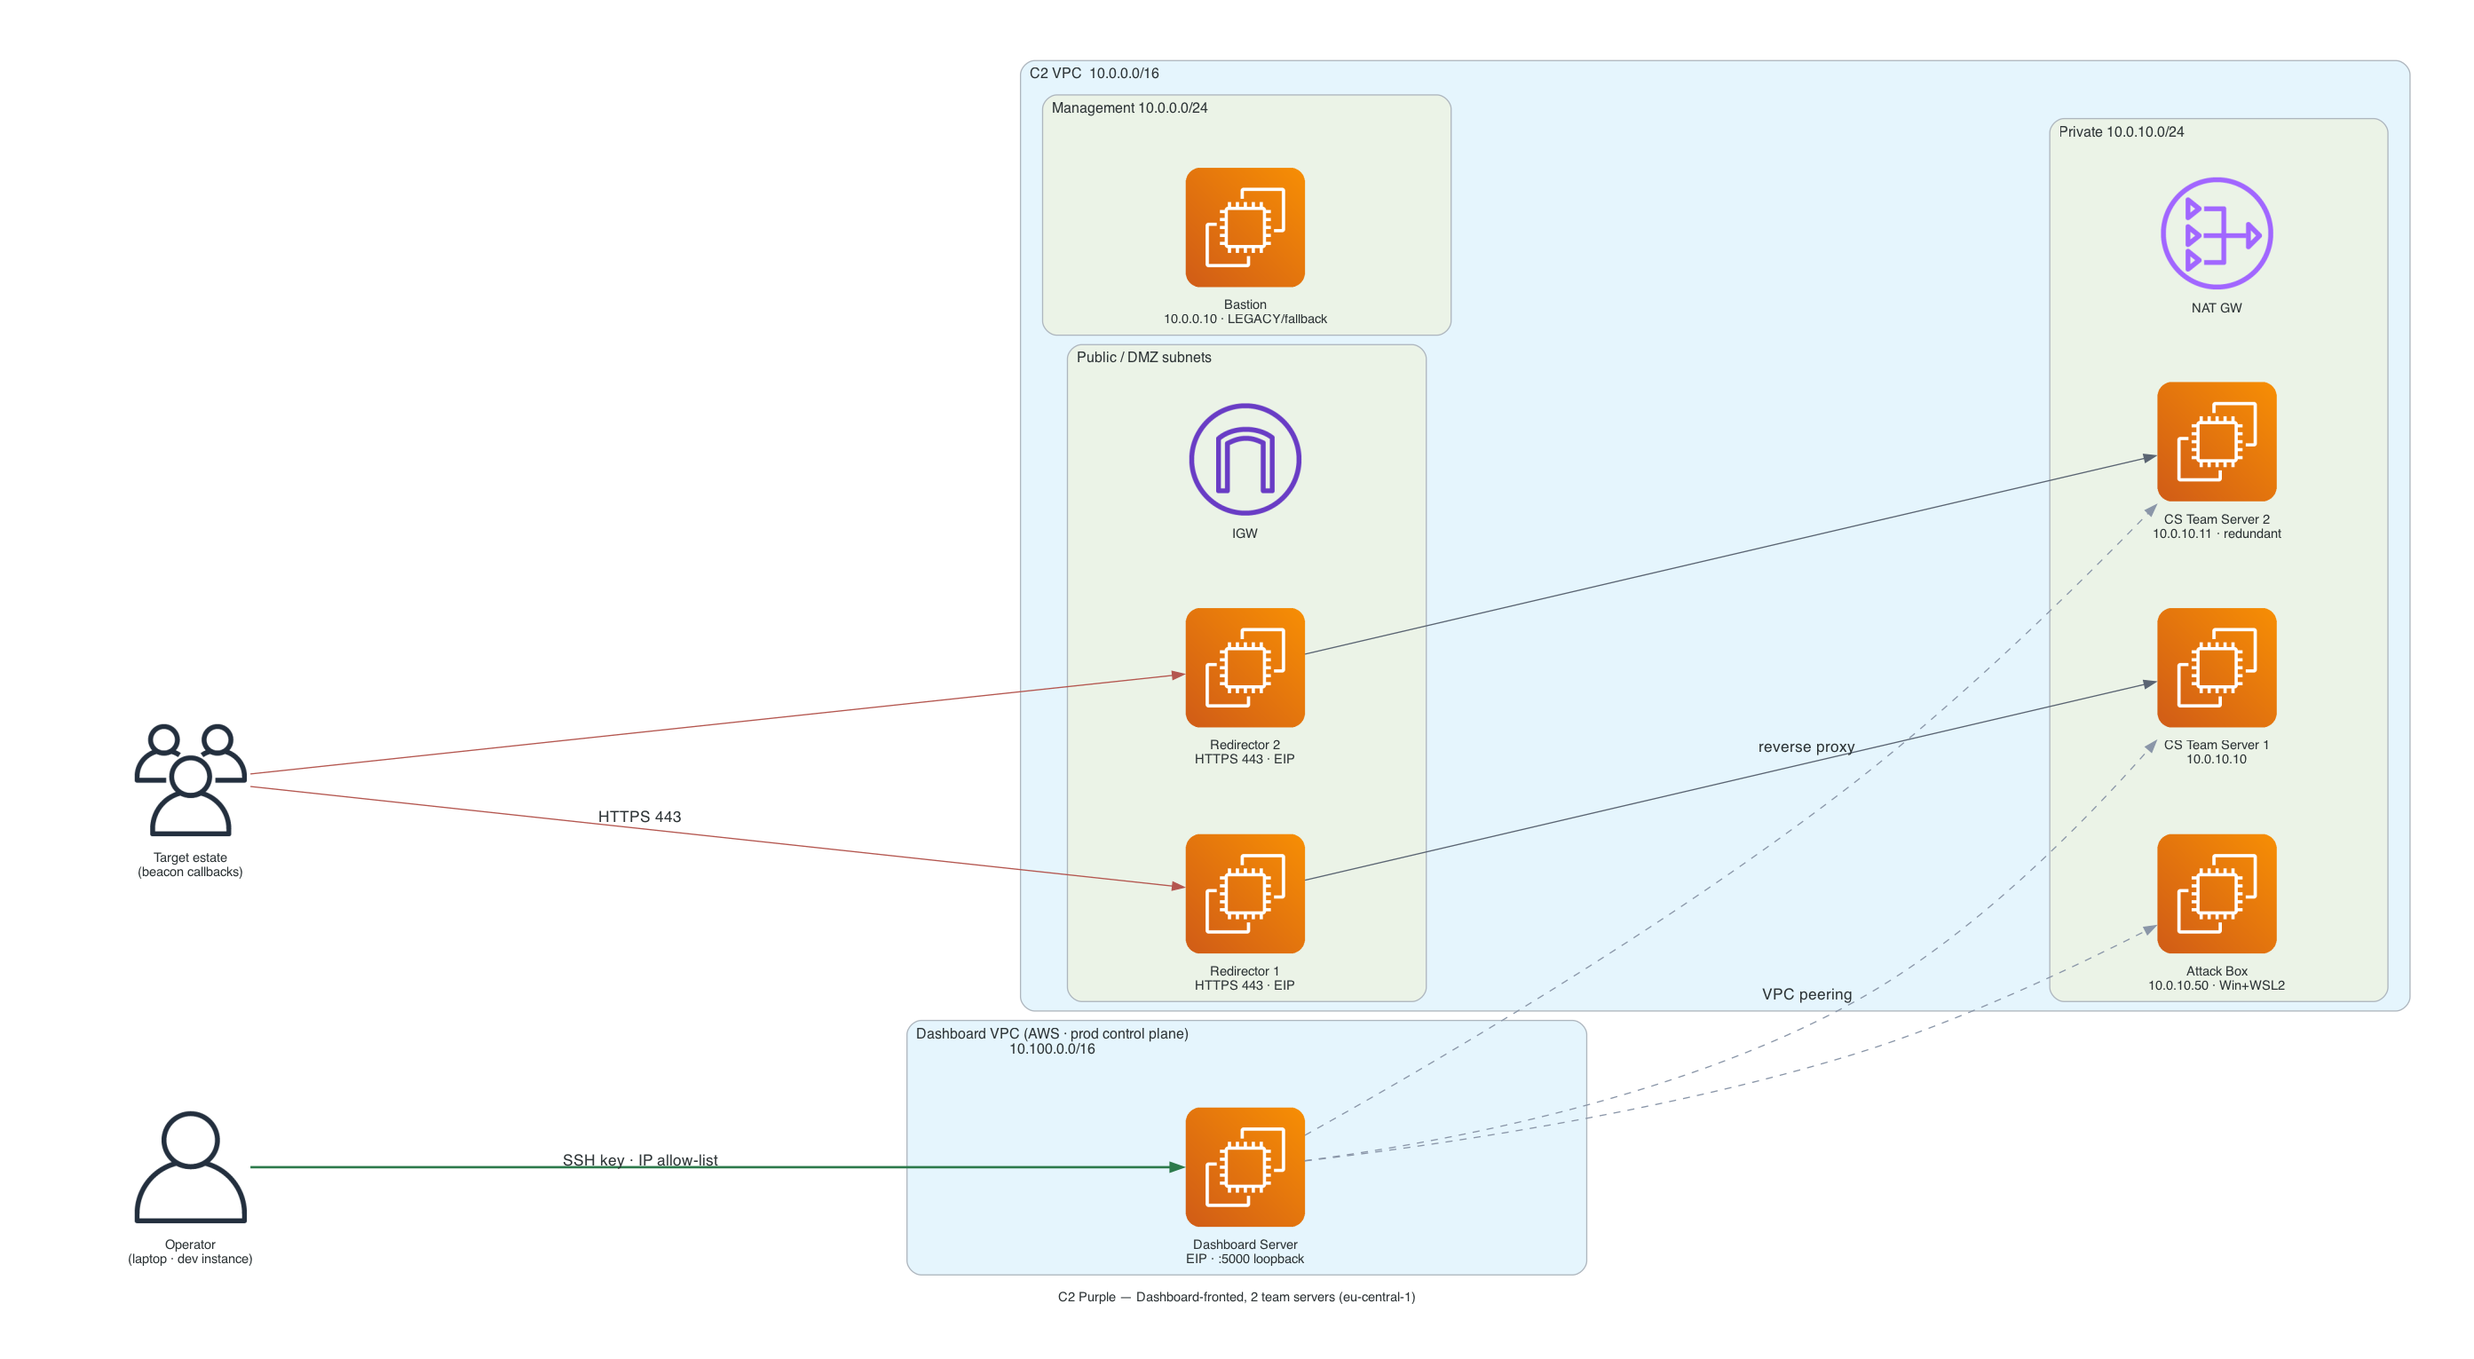
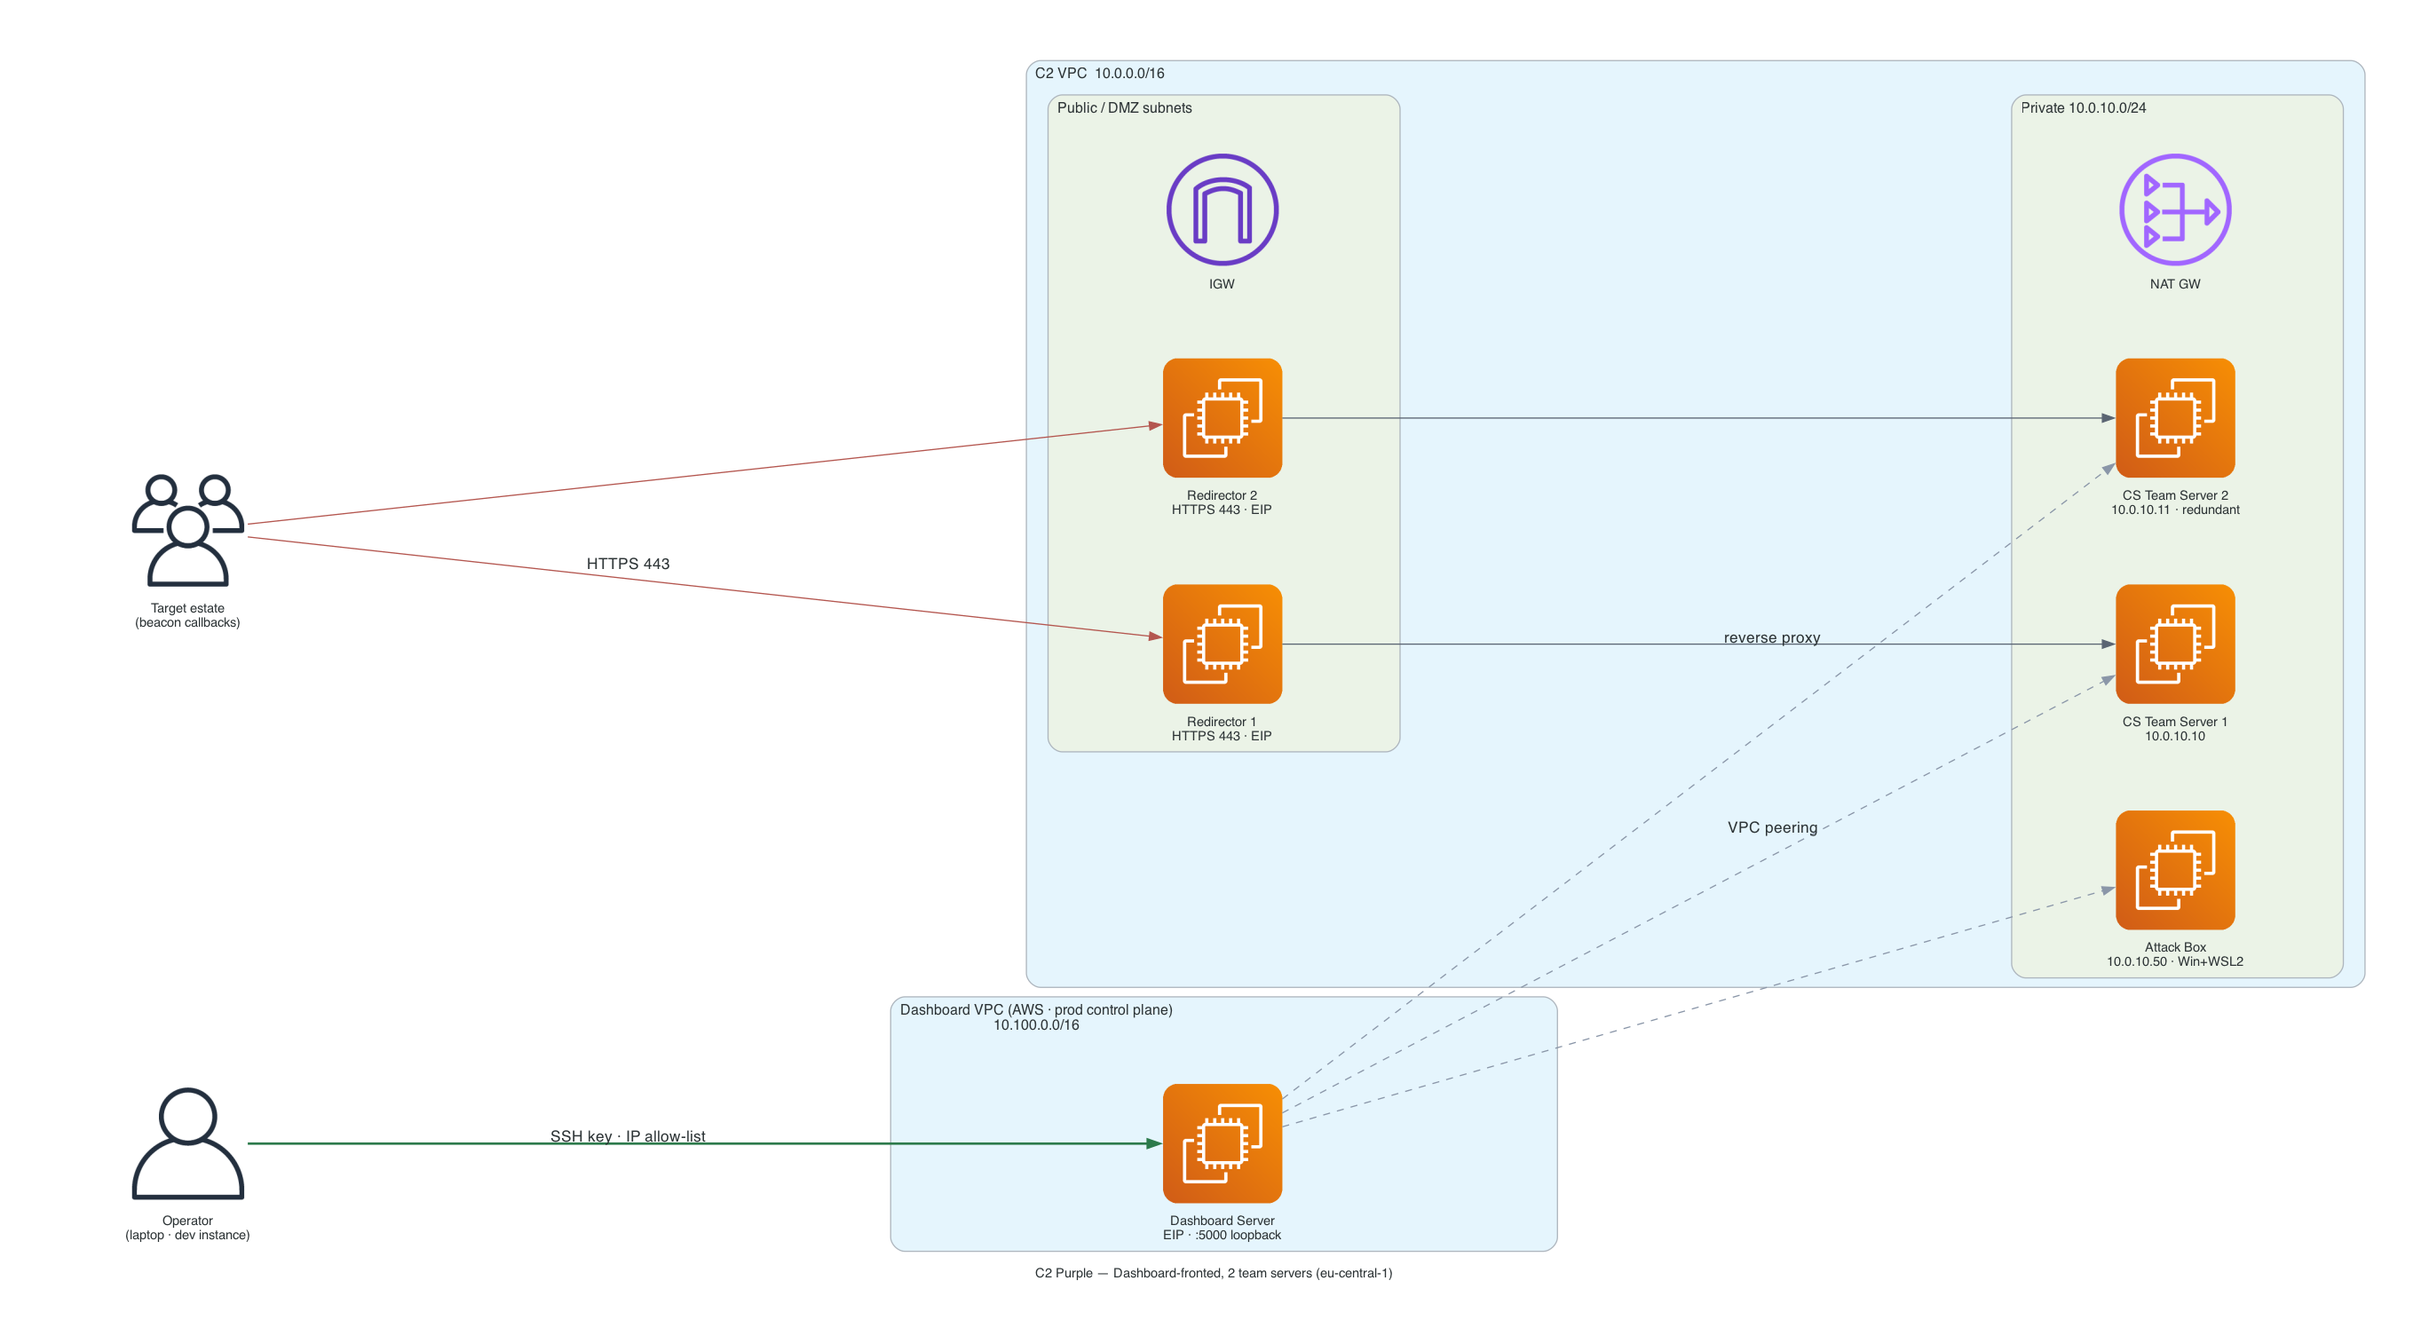
feat(diagrams): remove bastion entirely (dashboard is the only jump)
The per-deployment bastion is deleted from the architecture — the
AWS-hosted Dashboard Server is the sole SSH jump. Removed every bastion
node + empty Management subnet cluster from the diagram scripts and
re-rendered. The GOAD jumpbox is retained (it's the Ansible AD-lab
provisioning host, not a bastion) and relabeled accordingly.

diff --git a/scripts/diagrams/diag_attackbox.py b/scripts/diagrams/diag_attackbox.py
@@ -6,8 +6,9 @@ peering into the deployment -> RDP tunnel to the attack box in the private
 subnet. The one-liner
     ssh -L 13389:<attackbox-ip>:3389 ubuntu@<dashboard-eip>
 forwards RDP 3389 over the dashboard jump; the operator then mstsc to
-localhost:13389. The per-deployment bastion remains LEGACY/fallback only.
-S3 + Secrets Manager feed the bootstrap (init script, CS archive, GitHub PAT).
+localhost:13389. The per-deployment bastion has been removed — the dashboard
+is the only jump. S3 + Secrets Manager feed the bootstrap (init script, CS
+archive, GitHub PAT).
 """
 from diagrams import Cluster, Edge
 from diagrams.aws.compute import EC2
@@ -24,8 +25,6 @@ with rt_diagram("Attack Box — Dashboard-jumped RDP (Win Server 2022 + WSL2)", 
         op >> OPERATOR_EDGE >> dash
 
     with Cluster("Deployment VPC  (C2 10.0.0.0/16  ·  GOAD 192.168.56.0/24)"):
-        with Cluster("Management subnet"):
-            bastion = EC2("Bastion / Jumpbox\nLEGACY / fallback")
         with Cluster("Private subnet  (10.0.10.0/24 · 192.168.56.0/26)"):
             nat = NATGateway("NAT GW")
             ab = EC2("Attack Box\n10.0.10.50 · Win Server 2022\nWSL2 · RDP 3389 / SSH 22 / WinRM")

diff --git a/scripts/diagrams/diag_server_mode_goad_mini.py b/scripts/diagrams/diag_server_mode_goad_mini.py
@@ -4,7 +4,8 @@ Emphasises the AWS-hosted Dashboard Server as the production control plane +
 SSH jump. The operator reaches everything through ONE tunnel to the dashboard
 (`ssh -L 5000:localhost:5000 ubuntu@<dashboard-eip>`); the Dashboard VPC is
 peered with the GOAD VPC so the dashboard has direct routable access to every
-lab instance. The per-deployment jumpbox is LEGACY/fallback only.
+lab instance. The GOAD jumpbox is the Ansible AD-lab provisioning host (not a
+bastion); the dashboard is the SSH jump.
 """
 from diagrams import Cluster, Edge
 from diagrams.aws.compute import EC2
@@ -35,7 +36,7 @@ with rt_diagram("Server Mode — GOAD Mini (dashboard control plane)", "server-m
         with Cluster("Public 192.168.56.64/26"):
             igw_goad = InternetGateway("IGW")
             nat_goad = NATGateway("NAT GW")
-            jump = EC2("Jumpbox\n.100 · EIP · LEGACY/fallback")
+            jump = EC2("Jumpbox\n.100 · GOAD Ansible provisioning")
         with Cluster("Private 192.168.56.0/26"):
             dc01 = EC2("DC01 kingslanding\n.10 · sevenkingdoms.local")
             ts_goad = EC2("CS Team Server\n.40 · :50050")

diff --git a/scripts/diagrams/diag_combined_full_c2_goad_full.py b/scripts/diagrams/diag_combined_full_c2_goad_full.py
@@ -44,8 +44,6 @@ with rt_diagram("Combined — C2 Full + GOAD Full (3-way VPC peering)", "combine
             r1 = EC2("Redirector 1\nHTTPS 443 · EIP")
             r2 = EC2("Redirector 2\nHTTPS 443 · EIP")
             r3 = EC2("Redirector 3\nHTTPS 443 · EIP")
-        with Cluster("Management 10.0.0.0/24"):
-            bastion = EC2("Bastion\n10.0.0.10 · LEGACY/fallback")
         with Cluster("Private 10.0.10.0/24"):
             nat_c2 = NATGateway("NAT GW")
             ts_stage = EC2("Team Server — Staging\n10.0.10.10")
@@ -58,7 +56,7 @@ with rt_diagram("Combined — C2 Full + GOAD Full (3-way VPC peering)", "combine
         with Cluster("Public 192.168.56.64/26"):
             igw_goad = InternetGateway("IGW")
             nat_goad = NATGateway("NAT GW")
-            jump = EC2("Jumpbox\n.100 · EIP · LEGACY/fallback")
+            jump = EC2("Jumpbox\n.100 · GOAD Ansible provisioning")
         with Cluster("Private 192.168.56.0/26"):
             with Cluster("Forest: sevenkingdoms.local"):
                 dc01 = EC2("DC01 kingslanding\n.10 · sevenkingdoms.local")

diff --git a/scripts/diagrams/diag_combined_full_c2_goad_light.py b/scripts/diagrams/diag_combined_full_c2_goad_light.py
@@ -43,8 +43,6 @@ with rt_diagram("Combined — C2 Full + GOAD Light (3-way VPC peering)", "combin
             r1 = EC2("Redirector 1\nHTTPS 443 · EIP")
             r2 = EC2("Redirector 2\nHTTPS 443 · EIP")
             r3 = EC2("Redirector 3\nHTTPS 443 · EIP")
-        with Cluster("Management 10.0.0.0/24"):
-            bastion = EC2("Bastion\n10.0.0.10 · LEGACY/fallback")
         with Cluster("Private 10.0.10.0/24"):
             nat_c2 = NATGateway("NAT GW")
             ts_stage = EC2("Team Server — Staging\n10.0.10.10")
@@ -57,7 +55,7 @@ with rt_diagram("Combined — C2 Full + GOAD Light (3-way VPC peering)", "combin
         with Cluster("Public 192.168.56.64/26"):
             igw_goad = InternetGateway("IGW")
             nat_goad = NATGateway("NAT GW")
-            jump = EC2("Jumpbox\n.100 · EIP · LEGACY/fallback")
+            jump = EC2("Jumpbox\n.100 · GOAD Ansible provisioning")
         with Cluster("Private 192.168.56.0/26"):
             with Cluster("Forest: sevenkingdoms.local"):
                 dc01 = EC2("DC01 kingslanding\n.10 · sevenkingdoms.local")

diff --git a/scripts/diagrams/diag_server_mode_c2_adhoc.py b/scripts/diagrams/diag_server_mode_c2_adhoc.py
@@ -5,7 +5,8 @@ Emphasises the AWS-hosted Dashboard Server as the production control plane +
 SSH jump. The operator reaches everything through ONE tunnel to the dashboard
 (`ssh -L 5000:localhost:5000 ubuntu@<dashboard-eip>`); the Dashboard VPC is
 peered with the C2 VPC so the dashboard has direct routable access to every
-instance. The per-deployment bastion is LEGACY/fallback only.
+instance. The per-deployment bastion has been removed — the dashboard is the
+only jump.
 """
 from diagrams import Cluster, Edge
 from diagrams.aws.compute import EC2
@@ -39,8 +40,6 @@ with rt_diagram("Server Mode — C2 Ad-Hoc (dashboard control plane)", "server-m
             igw_c2 = InternetGateway("IGW")
             r1 = EC2("Redirector 1\nHTTPS 443 · EIP")
             r2 = EC2("Redirector 2\nHTTPS 443 · EIP")
-        with Cluster("Management 10.0.0.0/24"):
-            bastion = EC2("Bastion\n10.0.0.10 · LEGACY/fallback")
         with Cluster("Private 10.0.10.0/24"):
             nat_c2 = NATGateway("NAT GW")
             ts = EC2("CS Team Server\n10.0.10.10\n:50050 CS · :50443 REST")

diff --git a/scripts/diagrams/diag_goad_full.py b/scripts/diagrams/diag_goad_full.py
@@ -1,8 +1,8 @@
 """goad-full — 3 DC + 2 member servers across two forests
 (sevenkingdoms.local + essos.local, with parent-child + forest trusts),
 fronted by the AWS-hosted Dashboard Server. Operator -> Dashboard hub ->
-peered GOAD VPC. The GOAD jumpbox is legacy/fallback; the dashboard is the
-real jump."""
+peered GOAD VPC. The GOAD jumpbox is the Ansible AD-lab provisioning host
+(not a bastion); the dashboard is the SSH jump."""
 from diagrams import Cluster, Edge
 from diagrams.aws.compute import EC2
 from diagrams.aws.network import InternetGateway, NATGateway
@@ -19,7 +19,7 @@ with rt_diagram("GOAD-Full — Dashboard-fronted AD lab", "goad-full-architectur
         with Cluster("Public subnet  .64/26"):
             igw = InternetGateway("IGW")
             nat = NATGateway("NAT GW\n(outbound for private)")
-            jump = EC2("Jumpbox\n.100 · EIP · LEGACY/fallback")
+            jump = EC2("Jumpbox\n.100 · GOAD Ansible provisioning")
 
         with Cluster("Private subnet  .0/26"):
             ts = EC2("CS Team Server\n.40 · :50050")

diff --git a/scripts/diagrams/diag_combined_c2_goad_mini.py b/scripts/diagrams/diag_combined_c2_goad_mini.py
@@ -31,8 +31,6 @@ with rt_diagram("Combined — C2 Ad-Hoc + GOAD Mini (3-way VPC peering)", "combi
             igw_c2 = InternetGateway("IGW")
             r1 = EC2("Redirector 1\nHTTPS 443 · EIP")
             r2 = EC2("Redirector 2\nHTTPS 443 · EIP")
-        with Cluster("Management 10.0.0.0/24"):
-            bastion = EC2("Bastion\n10.0.0.10 · LEGACY/fallback")
         with Cluster("Private 10.0.10.0/24"):
             nat_c2 = NATGateway("NAT GW")
             ts = EC2("CS Team Server\n10.0.10.10")
@@ -43,7 +41,7 @@ with rt_diagram("Combined — C2 Ad-Hoc + GOAD Mini (3-way VPC peering)", "combi
         with Cluster("Public 192.168.56.64/26"):
             igw_goad = InternetGateway("IGW")
             nat_goad = NATGateway("NAT GW")
-            jump = EC2("Jumpbox\n.100 · EIP · LEGACY/fallback")
+            jump = EC2("Jumpbox\n.100 · GOAD Ansible provisioning")
         with Cluster("Private 192.168.56.0/26"):
             dc01 = EC2("DC01 kingslanding\n.10 · sevenkingdoms.local")
             ts_goad = EC2("CS Team Server\n.40")

diff --git a/scripts/diagrams/diag_c2_purple.py b/scripts/diagrams/diag_c2_purple.py
@@ -4,7 +4,8 @@ fronted by the AWS-hosted Dashboard Server.
 Same topology as the c2-adhoc reference but with TWO team servers
 (10.0.10.10 + 10.0.10.11) for redundancy / multi-operator high availability.
 The Dashboard Server (own VPC, AWS-hosted prod control plane) is the hub all
-deployments branch from; the per-deployment bastion is LEGACY/fallback only.
+deployments branch from; the per-deployment bastion has been removed —
+the dashboard is the only jump.
 """
 from diagrams import Cluster, Edge
 from diagrams.aws.compute import EC2
@@ -25,8 +26,6 @@ with rt_diagram("C2 Purple — Dashboard-fronted, 2 team servers (eu-central-1)"
             igw = InternetGateway("IGW")
             r1 = EC2("Redirector 1\nHTTPS 443 · EIP")
             r2 = EC2("Redirector 2\nHTTPS 443 · EIP")
-        with Cluster("Management 10.0.0.0/24"):
-            bastion = EC2("Bastion\n10.0.0.10 · LEGACY/fallback")
         with Cluster("Private 10.0.10.0/24"):
             nat = NATGateway("NAT GW")
             ts1 = EC2("CS Team Server 1\n10.0.10.10")

diff --git a/scripts/diagrams/diag_goad_nha.py b/scripts/diagrams/diag_goad_nha.py
@@ -1,7 +1,8 @@
 """goad-nha — Network Hacking Academy lab: 2 DC + 3 member servers across
 ninja.hack + academy.ninja.lan (parent-child trust), fronted by the
 AWS-hosted Dashboard Server. Operator -> Dashboard hub -> peered GOAD VPC.
-The GOAD jumpbox is legacy/fallback; the dashboard is the real jump."""
+The GOAD jumpbox is the Ansible AD-lab provisioning host (not a bastion);
+the dashboard is the SSH jump."""
 from diagrams import Cluster, Edge
 from diagrams.aws.compute import EC2
 from diagrams.aws.network import InternetGateway, NATGateway
@@ -18,7 +19,7 @@ with rt_diagram("GOAD-NHA — Dashboard-fronted AD lab", "goad-nha-architecture"
         with Cluster("Public subnet  .64/26"):
             igw = InternetGateway("IGW")
             nat = NATGateway("NAT GW\n(outbound for private)")
-            jump = EC2("Jumpbox\n.100 · EIP · LEGACY/fallback")
+            jump = EC2("Jumpbox\n.100 · GOAD Ansible provisioning")
 
         with Cluster("Private subnet  .0/26"):
             ts = EC2("CS Team Server\n.40 · :50050")

diff --git a/scripts/diagrams/diag_c2_adhoc_domain_fronting.py b/scripts/diagrams/diag_c2_adhoc_domain_fronting.py
@@ -6,7 +6,7 @@ CloudFront edge (front domain, Host header -> back domain) -> redirector
 origins -> CS team server. ACM provides the public-facing cert (auto,
 DNS-validated, no Let's Encrypt needed). The Dashboard Server (own VPC,
 AWS-hosted prod control plane) is the hub all deployments branch from; the
-per-deployment bastion is LEGACY/fallback only.
+per-deployment bastion has been removed — the dashboard is the only jump.
 """
 from diagrams import Cluster, Edge
 from diagrams.aws.compute import EC2
@@ -34,8 +34,6 @@ with rt_diagram("C2 Ad-Hoc + Domain Fronting — Dashboard-fronted (eu-central-1
             igw = InternetGateway("IGW")
             r1 = EC2("Redirector 1\nHTTPS 443 · CloudFront origin")
             r2 = EC2("Redirector 2\nHTTPS 443 · CloudFront origin")
-        with Cluster("Management 10.0.0.0/24"):
-            bastion = EC2("Bastion\n10.0.0.10 · LEGACY/fallback")
         with Cluster("Private 10.0.10.0/24"):
             nat = NATGateway("NAT GW")
             ts = EC2("CS Team Server\n10.0.10.10")

diff --git a/scripts/diagrams/diag_c2_full.py b/scripts/diagrams/diag_c2_full.py
@@ -6,7 +6,7 @@ Phase-based team servers (staging / post-ex / long-haul) at
 10.0.10.10 / .11 / .12. CloudFront sits in front of the redirectors to hide
 their EIPs behind CloudFront edge IPs. The Dashboard Server (own VPC,
 AWS-hosted prod control plane) is the hub all deployments branch from; the
-per-deployment bastion is LEGACY/fallback only.
+per-deployment bastion has been removed — the dashboard is the only jump.
 """
 from diagrams import Cluster, Edge
 from diagrams.aws.compute import EC2
@@ -35,8 +35,6 @@ with rt_diagram("C2 Full — Dashboard-fronted, 3 phase team servers + CloudFron
             r1 = EC2("Redirector 1\nHTTPS 443 · EIP")
             r2 = EC2("Redirector 2\nHTTPS 443 · EIP")
             r3 = EC2("Redirector 3\nHTTPS 443 · EIP")
-        with Cluster("Management 10.0.0.0/24"):
-            bastion = EC2("Bastion\n10.0.0.10 · LEGACY/fallback")
         with Cluster("Private 10.0.10.0/24"):
             nat = NATGateway("NAT GW")
             ts_stage = EC2("Team Server — Staging\n10.0.10.10")

diff --git a/scripts/diagrams/diag_goad_light.py b/scripts/diagrams/diag_goad_light.py
@@ -1,7 +1,8 @@
 """goad-light — 2 DC + 1 member server, parent-child trust
 (sevenkingdoms.local + north.sevenkingdoms.local), fronted by the
 AWS-hosted Dashboard Server. Operator -> Dashboard hub -> peered GOAD VPC.
-The GOAD jumpbox is legacy/fallback; the dashboard is the real jump."""
+The GOAD jumpbox is the Ansible AD-lab provisioning host (not a bastion);
+the dashboard is the SSH jump."""
 from diagrams import Cluster, Edge
 from diagrams.aws.compute import EC2
 from diagrams.aws.network import InternetGateway, NATGateway
@@ -18,7 +19,7 @@ with rt_diagram("GOAD-Light — Dashboard-fronted AD lab", "goad-light-architect
         with Cluster("Public subnet  .64/26"):
             igw = InternetGateway("IGW")
             nat = NATGateway("NAT GW\n(outbound for private)")
-            jump = EC2("Jumpbox\n.100 · EIP · LEGACY/fallback")
+            jump = EC2("Jumpbox\n.100 · GOAD Ansible provisioning")
 
         with Cluster("Private subnet  .0/26"):
             ts = EC2("CS Team Server\n.40 · :50050")
